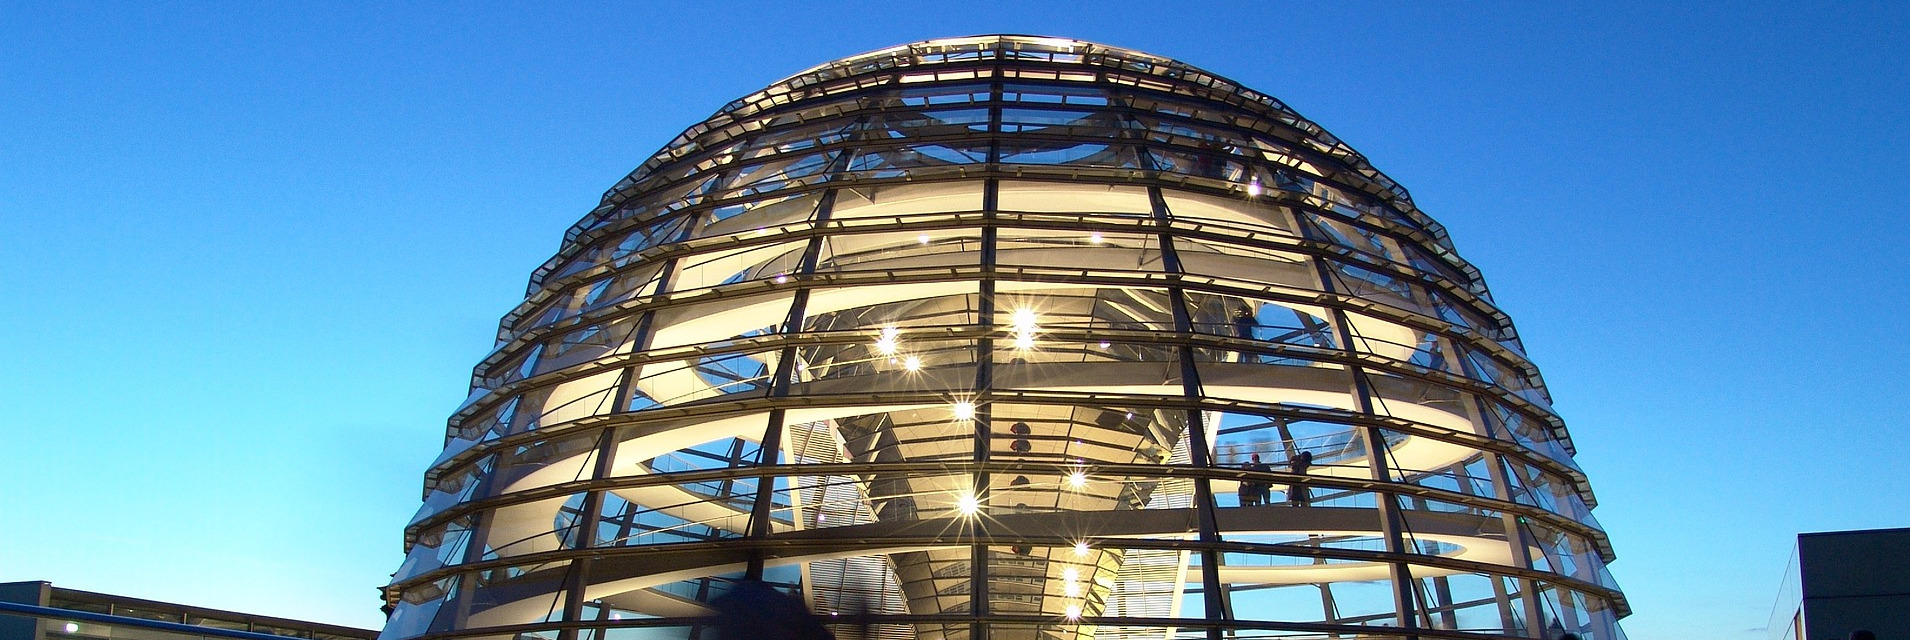
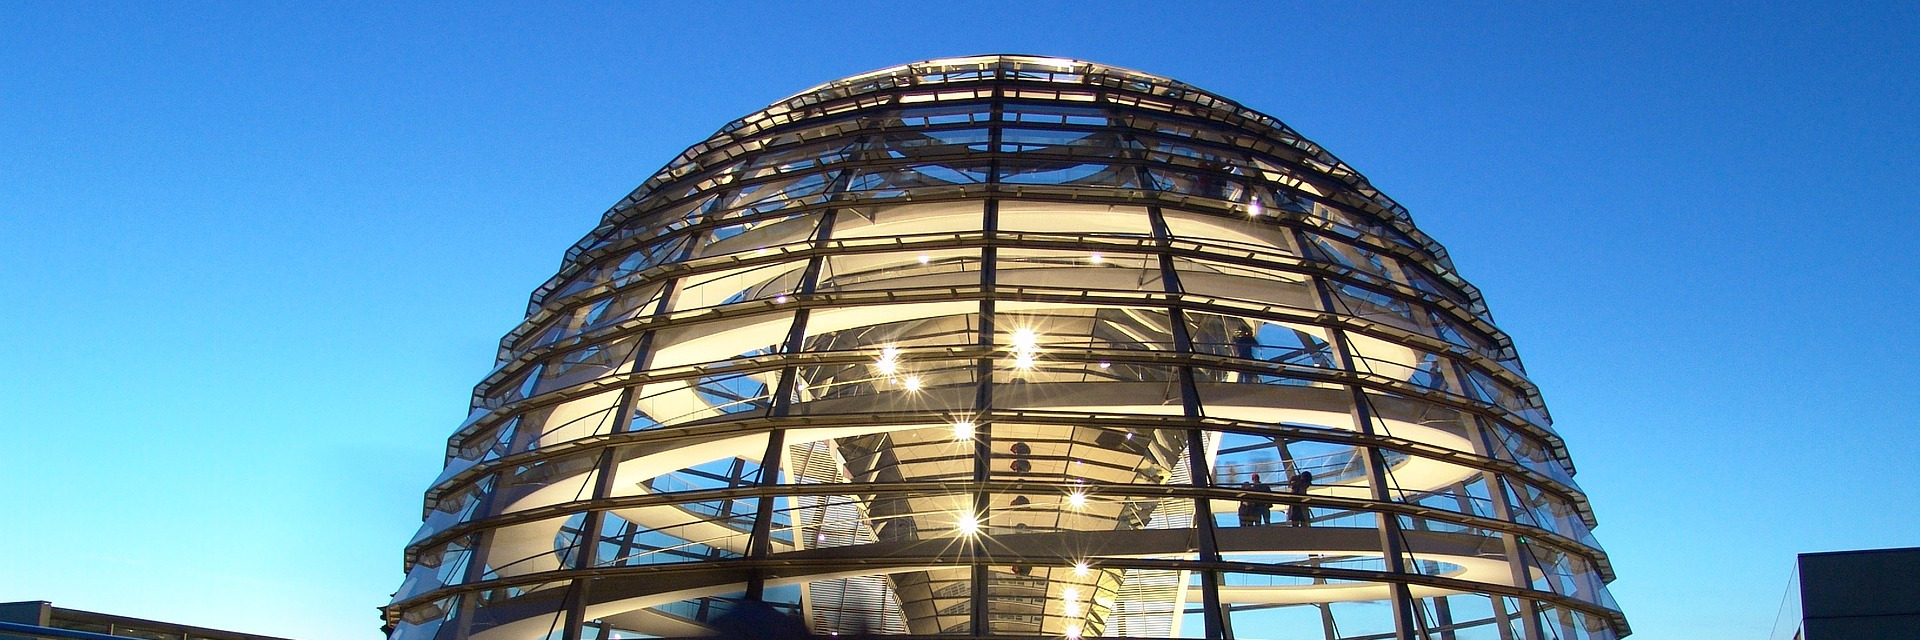
Carousel 640er Bilder Nachverabeitung

diff --git a/docs/index.html b/docs/index.html
@@ -18,7 +18,7 @@
     <div id="myCarousel" class="carousel slide carousel-fade" data-ride="carousel" data-interval="7000">
       <div class="carousel-inner">
         <div class="carousel-item active">
-          <img src="pictures/carousel_tor1_1920x1440.jpg" class="d-block w-100" alt="Brandenburger Tor">
+          <img src="pictures/carousel_tor1_1920x640.jpg" class="d-block w-100" alt="Brandenburger Tor">
           <!-- +++++ Beschriftung Bild +++++ -->
           <div class="carousel-caption">
             <h1>Brandenburger Tor</h1>
@@ -26,7 +26,7 @@
           </div>
         </div>
         <div class="carousel-item">
-          <img src="pictures/carousel_kuppel_1920x1440.jpg" class="d-block w-100" alt="Kuppel_Bundestag">
+          <img src="pictures/carousel_kuppel_1920x640.jpg" class="d-block w-100" alt="Kuppel_Bundestag">
           <!-- +++++ Beschriftung Bild +++++ -->
           <div class="carousel-caption">
             <h1>Kuppel Bundestag</h1>
@@ -34,7 +34,7 @@
           </div>
         </div>
         <div class="carousel-item">
-          <img src="pictures/carousel_tor2_1920x1440.jpg" class="d-block w-100" alt="Brandenburger_Tor">
+          <img src="pictures/carousel_tor2_1920x640.jpg" class="d-block w-100" alt="Brandenburger_Tor">
           <!-- +++++ Beschriftung Bild +++++ -->
           <div class="carousel-caption">
             <h1>Brandenburger Tor</h1>
@@ -42,11 +42,19 @@
           </div>
         </div>
         <div class="carousel-item">
-          <img src="pictures/carousel_mauer_1920x1440.jpg" class="d-block w-100" alt="Berliner_Mauer">
+          <img src="pictures/carousel_mauer_1920x640.jpg" class="d-block w-100" alt="Berliner_Mauer">
           <!-- +++++ Beschriftung Bild +++++ -->
           <div class="carousel-caption">
             <h1>Berliner Mauer</h1>
-            <p>Sie war das abschreckendste Symbol des Ost-West-Konfliktes. Mehr als ein Vierteljahrhundert Symbol der Teilung Deutschlands fiel die Mauer am 9. November 1989. </p>
+           
+          </div>
+        </div>
+        <div class="carousel-item">
+          <img src="pictures/carousel_dom_1920x640.jpg" class="d-block w-100" alt="Berliner_Dom">
+          <!-- +++++ Beschriftung Bild +++++ -->
+          <div class="carousel-caption">
+            <h1>Berliner Dom</h1>
+            <p>Brandenburger Tor</p>
           </div>
         </div>
       </div>
